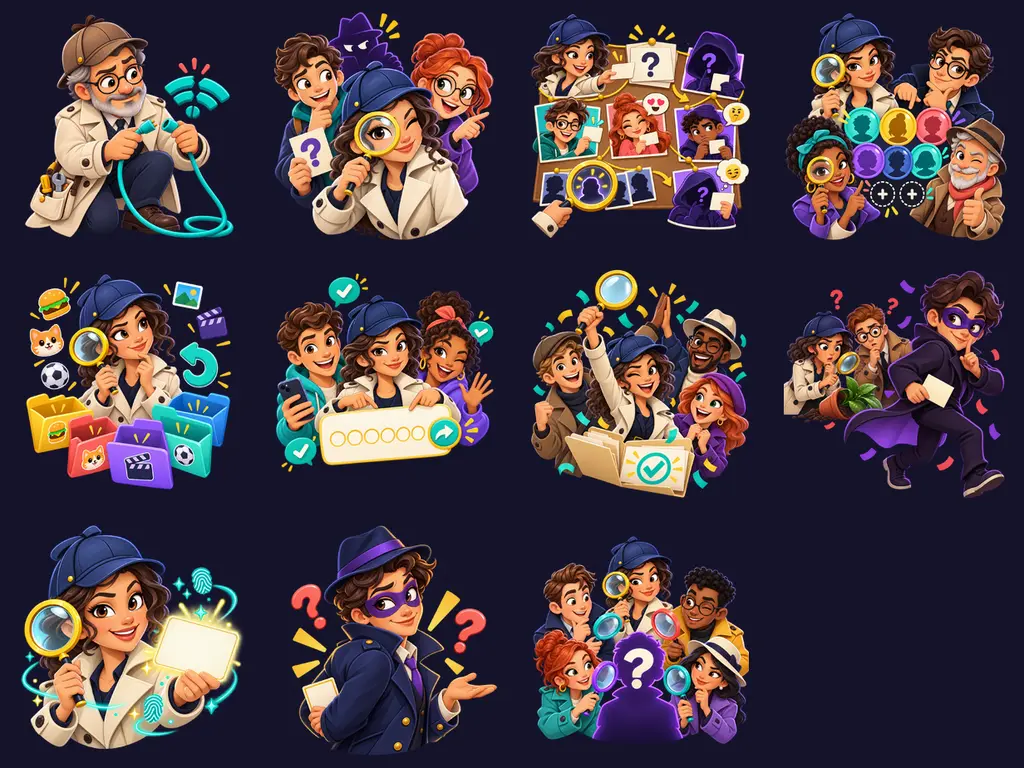
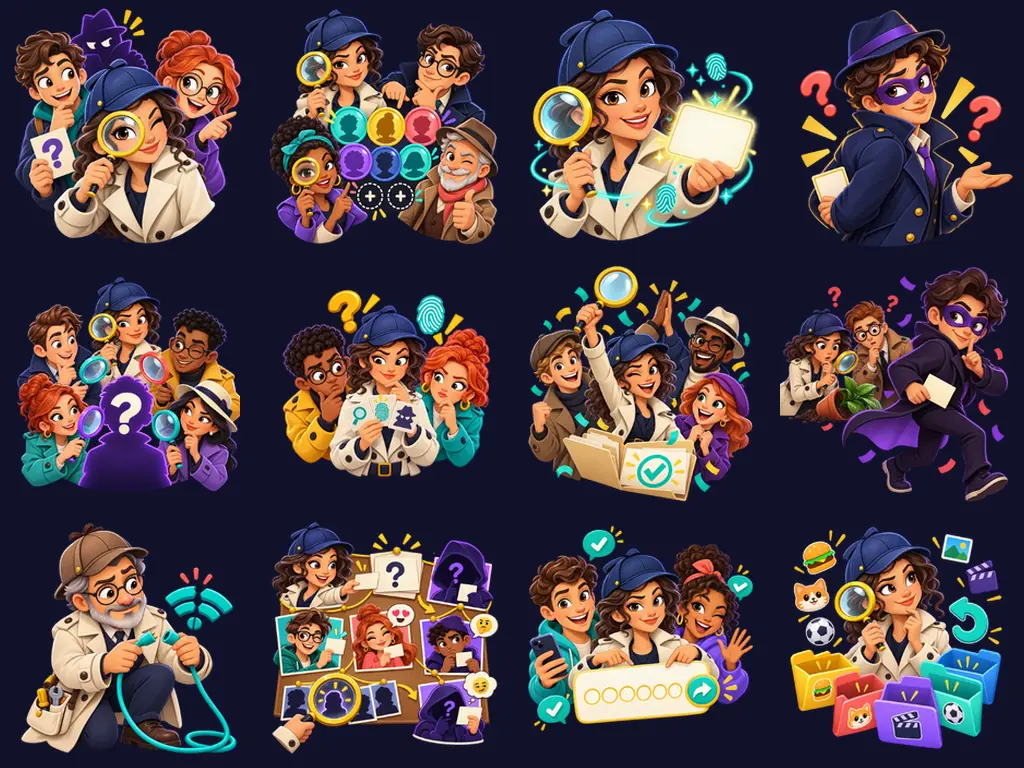
feat(assets): add pre-vote transition illustration
Add the cleaned transparent WebP to the source assets and Flutter bundle, refresh the illustration contact sheet, and update the documented asset count and mapping.

diff --git a/README.md b/README.md
@@ -17,7 +17,7 @@
 - [כיוון עיצובי](docs/design-direction.md)
 - [Wireframes וכל מצבי המסכים](docs/wireframes.md)
 - [הנחיות עיצוב לקלוד](CLAUDE.md)
-- [נכסי איור — 12 אווטארים ו־11 אילוסטרציות](assets/README.md)
+- [נכסי איור — 12 אווטארים ו־12 אילוסטרציות](assets/README.md)
 - [ארכיטקטורה ו־State Machines](docs/architecture.md)
 - [חוזי REST ו־WebSocket](docs/protocol.md)
 - [סקירת ארכיטקטורה לקראת ייצור](docs/production-architecture-review.md)
@@ -30,7 +30,7 @@
 - Wireframe: גרסה מעודכנת עם 29 מסכים ומצבי מערכת
 - עיצוב: 29 מסכים, מערכת עיצוב ו־Prototype תחת [`design/claude/`](design/claude/); האפליקציה מותאמת למסכים, למעט בדיקה על מכשיר
 - מצב שאלה: מחוץ ל־MVP ויתוכנן בהמשך
-- כיוון עיצובי: נקבע; 12 אווטארים ו־11 אילוסטרציות בגרסת v1 נמצאים תחת `assets/`
+- כיוון עיצובי: נקבע; 12 אווטארים ו־12 אילוסטרציות בגרסת v1 נמצאים תחת `assets/`
 - שרת Go: מנוע משחק, חדרים פרטיים, Matchmaking, REST ו־WebSocket, 6 קטגוריות תוכן ורשימת תגובות
 - חוסן ייצור: כיבוי מסודר, הכלת `panic`, ניקוי sessions וחדרים, הגבלות קצב, `/metrics` ולוגים ב־JSON
 - Hosting: מכונה אחת ב־GCE (`e2-micro`, Free Tier) עם Caddy; הנוהל ב־[`deploy/`](deploy/)

diff --git a/docs/design-direction.md b/docs/design-direction.md
@@ -49,7 +49,7 @@
 
 ## אילוסטרציות
 
-- 11 אילוסטרציות שקופות נוצרו ונמצאות תחת `assets/illustrations/`.
+- 12 אילוסטרציות שקופות נוצרו ונמצאות תחת `assets/illustrations/`.
 - הן מכסות בית, חיפוש שחקנים, חשיפת שני התפקידים, הצבעה, שתי תוצאות, חיבור/תקלה, הוראות, חדר פרטי ואין התאמה לקטגוריות.
 - יש להשאיר טקסט, כפתורים ונתונים דינמיים כשכבות UI ולא להטמיע אותם בתוך התמונות.
 - מיפוי מלא ותצוגות הסט נמצאים ב־`assets/README.md`.

diff --git a/TASKS.md b/TASKS.md
@@ -40,7 +40,7 @@
 - [x] נוצרה טיוטת High Fidelity ראשונה של 29 המסכים בקלוד.
 - [x] נוצרה טיוטת Design System ראשונה בקלוד.
 - [x] נוצרו 12 אווטארים מגוונים: 6 בנות ו־6 בנים.
-- [x] נוצרו 11 אילוסטרציות למסכים המרכזיים ולמצבי קצה.
+- [x] נוצרו 12 אילוסטרציות למסכים המרכזיים ולמצבי קצה.
 - [x] כל נכסי האיור נשמרו בפורמט WebP שקוף תחת `assets/`.
 
 ### תכנון טכני ומנוע משחק

diff --git a/assets/README.md b/assets/README.md
@@ -51,6 +51,7 @@
 | `role-citizen.webp` | חשיפת תפקיד אזרח |
 | `role-impostor.webp` | חשיפת תפקיד מתחזה |
 | `voting.webp` | הצבעה והצבעה חוזרת |
+| `pre-vote-transition.webp` | מעבר של 5 שניות מסיום הרמזים להצבעה |
 | `result-citizens-win.webp` | ניצחון אזרחים |
 | `result-impostor-win.webp` | ניצחון מתחזה |
 | `connection-error.webp` | ניתוק, חיבור מחדש או תקלה בשרת |
